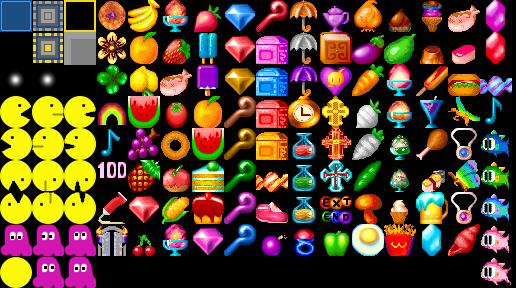
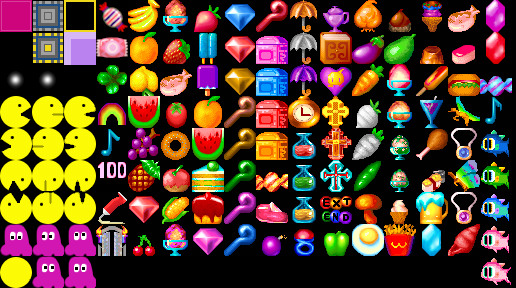
change supermarket style

Changed region(s): [[0.124, 0.0, 0.2481, 0.25], [0.0, 0.0, 0.062, 0.125]]

diff --git a/code/visualization/tiles_skeleton.py b/code/visualization/tiles_skeleton.py
@@ -1,4 +1,3 @@
-
 import numpy as np
 import cv2
 
@@ -9,8 +8,8 @@ OFS = 50
 MARKET = """
 ##################
 ##..............##
-##..##..##..#O..##
-##..##..##..#O..##
+##..b#..##..#O..##
+##..c#..##..#O..##
 ##..##..##..#O..##
 ##..##..##..#u..##
 ##..##..##..#u..##
@@ -41,7 +40,7 @@ class SupermarketMap:
         """returns the array for a given tile character"""
         # empty shelf
         if char == '#':
-            return self.tiles[0 : TILE_SIZE, 2*TILE_SIZE : 3 * TILE_SIZE]
+            return self.tiles[0 : TILE_SIZE, 0 : TILE_SIZE]
         # gate
         elif char == 'G':
             return self.tiles[7 * TILE_SIZE : 8 * TILE_SIZE, 3 * TILE_SIZE : 4 * TILE_SIZE]
@@ -54,6 +53,13 @@ class SupermarketMap:
         # pink umbrella
         elif char == 'u':
             return self.tiles[2 * TILE_SIZE: 3 * TILE_SIZE, 9 * TILE_SIZE : 10 * TILE_SIZE]
+        # candy 1
+        elif char == 'b':
+            return self.tiles[0 * TILE_SIZE: 1 * TILE_SIZE, 3 * TILE_SIZE : 4 * TILE_SIZE]
+        # candy 2
+        elif char == 'c':
+            return self.tiles[1 * TILE_SIZE: 2 * TILE_SIZE, 3 * TILE_SIZE : 4 * TILE_SIZE]
+
         else:
             return self.tiles[TILE_SIZE : 2 * TILE_SIZE, 2 * TILE_SIZE : 3 * TILE_SIZE]
 
@@ -78,7 +84,7 @@ class SupermarketMap:
 
 
 background = np.zeros((700, 1000, 3), np.uint8)
-tiles = cv2.imread('./graphics/tiles.png')
+tiles = cv2.imread('code/visualization/graphics/tiles.png')
 
 market = SupermarketMap(MARKET, tiles)
 
@@ -94,4 +100,4 @@ while True:
 
 cv2.destroyAllWindows()
 
-market.write_image("./graphics/supermarket.png")
+market.write_image("code/visualization/graphics/supermarket.png")
